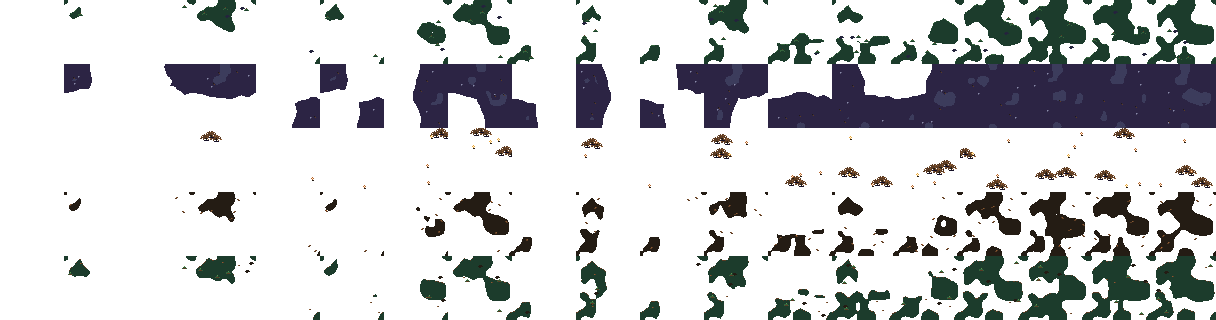
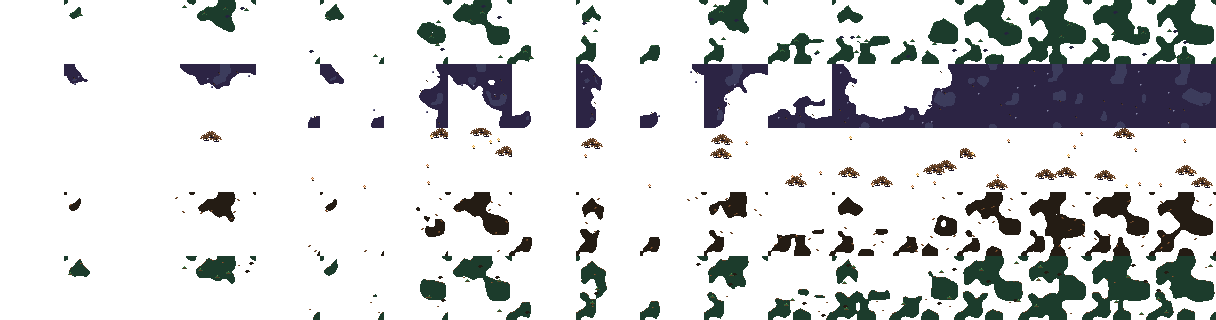
ground_patch.png row 1 (worn earth): ragged clumped rim like the other rows (Environment Code: a straight-edged slab in stable_test_t10)
Worn earth was solid up to its edge, so its outline followed the cell boundaries in near-straight runs. It now
uses the same clump falloff as the moss rows over a wider 18 px rim: solid deep inside, breaking up into ragged
clumps toward the edge. All 4 acts, same layout, no code change.

diff --git a/Project_T/tools/environment_art/heartwood_grounds.html b/Project_T/tools/environment_art/heartwood_grounds.html
@@ -626,8 +626,9 @@ function groundPatch(A, kind, k) {
   // tiles differ inside without seams. Worn earth is solid inside (Shade, a step under the old Dusk).
   const w = (x, y) => Math.sin(Math.PI * (x + .5) / PATCH) * Math.sin(Math.PI * (y + .5) / PATCH);
   const n = (x, y) => .6 * pnoise(x, y, 16, SEED + 940, 4) + .4 * pnoise(x, y, 8, SEED + 941, 8) + w(x, y) * (pnoise(x, y, 16, s + 942, 4) - .5) * .6;
-  const inner = [.46, -1, 2, act === 3 ? .5 : .46, .44][kind];  // the clump threshold deep inside (fern beds: no fill)
-  const inPatch = (x, y) => { const t = clamp((D(x, y) + PATCH_RIM_IN) / (PATCH_RIM_IN + PATCH_RIM_OUT), 0, 1); return n(x, y) > inner + (1.08 - inner) * t; };
+  const inner = [.46, .22, 2, act === 3 ? .5 : .46, .44][kind];  // the clump threshold deep inside (fern beds: no fill)
+  const rimIn = kind === 1 ? 18 : PATCH_RIM_IN;  // worn earth: nearly solid inside, so it breaks up over a wider rim (was a straight-edged slab)
+  const inPatch = (x, y) => { const t = clamp((D(x, y) + rimIn) / (rimIn + PATCH_RIM_OUT), 0, 1); return t === 0 && kind === 1 || n(x, y) > inner + (1.08 - inner) * t; };
   for (let y = 0; y < PATCH; y++) for (let x = 0; x < PATCH; x++) {
     if (!inPatch(x, y)) continue;
     const top = y > 0 && !inPatch(x, y - 1);  // a clump's lit upper edge (moss kinds only)
